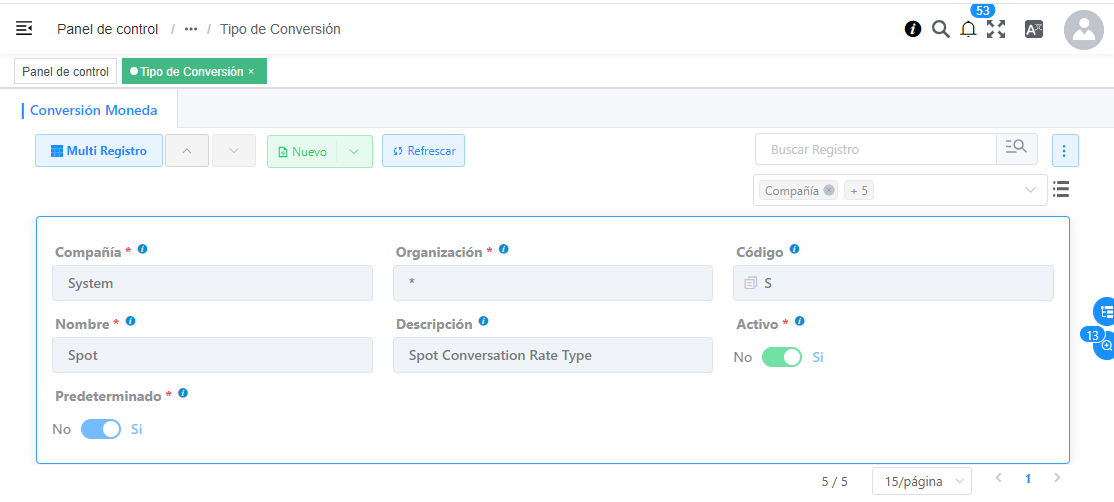
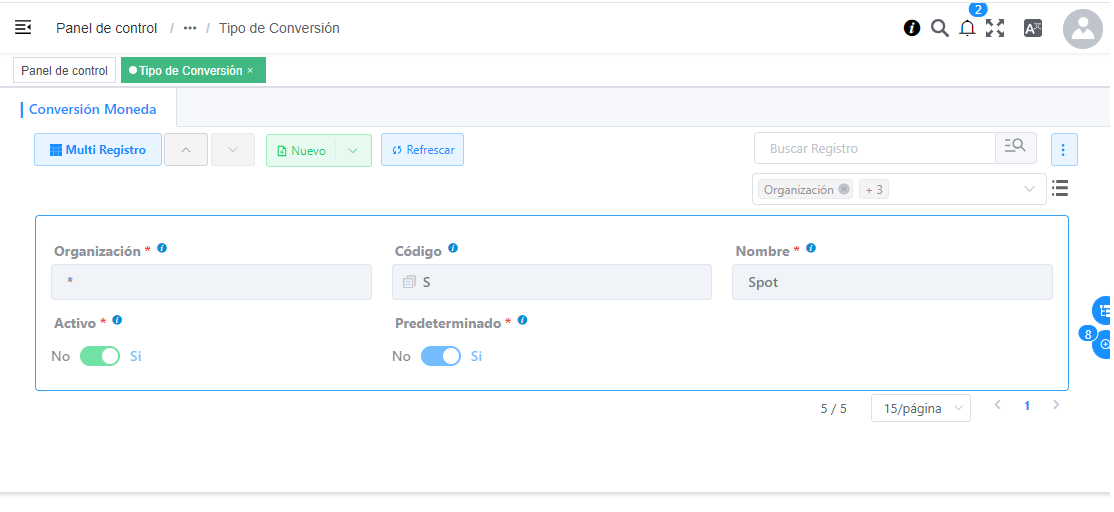
corrijo registro conversión monetaria, texto e imágenes

diff --git a/src/docs/accounting-management/accounting-rules/conversion.md b/src/docs/accounting-management/accounting-rules/conversion.md
@@ -23,7 +23,13 @@ Tasa de Conversión Diaria: Al trabajar con diferentes monedas en los procesos d
 
 En el caso de que el usuario intente crear una tasa de cambio con el mismo tipo de conversión y moneda utilizado previamente el mismo día, al intentar guardar el registro existirá una validación que no permitirá completar el proceso.
 
+Vista monoregistro:
+
 ![Campo](/assets/img/docs/accounting-management/acm-accounting-image997.png)
+
+Vista multiregistro:
+
+![Campo](/assets/img/docs/accounting-management/acm-accounting-image9970.png)
 
 Imagen 1. Ejemplo de Validación
 
@@ -43,7 +49,13 @@ Imagen 2. Menú de Solop ERP
 
 Podrá visualizar la ventana **Tipo de Conversión**, con los diferentes registros que contiene dicha ventana.
 
+Vista monoregistro:
+
 ![Campo](/assets/img/docs/accounting-management/acm-accounting-image208.png)
+
+Vista multiregistro:
+
+![Campo](/assets/img/docs/accounting-management/acm-accounting-image2008.png)
 
 Imagen 3. Ventana Tipo de Conversión
 
@@ -51,9 +63,9 @@ Seleccione el icono **Registro Nuevo**, ubicado en la barra de herramientas de S
 
 Seleccione en el campo **Organización**, la organización para la cual esta creando el registro de tipo de conversión.
 
-Introduzca en el campo **Código**, el código correspondiente al registro de tipo de conversión que se encuentra realizando, para este caso es utilizado el código **BCV**.
+Introduzca en el campo **Código**, el código correspondiente al registro de tipo de conversión que se encuentra realizando, para este caso es utilizado el código **BCU**.
 
-Introduzca en el campo **Nombre** el nombre correspondiente al registro de tipo de conversión que se encuentra realizando, para este caso es utilizado el nombre de conversión **BCV**.
+Introduzca en el campo **Nombre** el nombre correspondiente al registro de tipo de conversión que se encuentra realizando, para este caso es utilizado el nombre de conversión **BCU**.
 
 Introduzca en el campo **Descripción**, una breve descripción correspondiente al registro de tipo de conversión que se encuentra realizando.
 
@@ -93,13 +105,13 @@ La tasa de cambio se debe crear de dólares a pesos y de pesos a dólares.
 
 Seleccione en el campo **Moneda Hacia**, la moneda para la cual requiere convertir el dinero. Para ejemplificar el registro es utilizada la moneda **UYU**.
 
-Seleccione en el campo **Tipo de Conversión**, el tipo de conversión a utilizar. Para este caso es utilizado el tipo de conversión **BCV**, creado anteriormente.
+Seleccione en el campo **Tipo de Conversión**, el tipo de conversión a utilizar. Para este caso es utilizado el tipo de conversión **BCU**, creado anteriormente.
 
 Seleccione en el campo **Válido Desde**, la fecha desde la cual es válida la tasa de conversión que se encuentra realizando.
 
 Seleccione en el campo **Válido Hasta**, la fecha hasta la cual es válida la tasa de conversión que se encuentra realizando.
 
-Introduzca en el campo **Factor de Base a Destino**, la tasa por la que serán multiplicados los montos de las transacciones donde sea utilizado el tipo de conversión seleccionado anteriormente. Para ejemplificar el registro es utilizada la tasa **82.000,0**.
+Introduzca en el campo **Factor de Base a Destino**, la tasa por la que serán multiplicados los montos de las transacciones donde sea utilizado el tipo de conversión seleccionado anteriormente. Para ejemplificar el registro es utilizada la tasa **40,0**.
 
 ::: note
 Recuerde guardar los cambios realizados seleccionando el icono **Guardar Cambios**, ubicado en la barra de herramientas de Solop ERP.
@@ -133,7 +145,7 @@ Seleccione en el campo **Válido Desde**, la fecha de inicio del periodo de vali
 
 Seleccione en el campo **Válido Hasta**, la fecha final del periodo de validez de la tasa de cambio.
 
-Introduzca en el campo **Factor de Destino a Base**, la tasa por la que serán multiplicados los montos de las transacciones donde sea utilizado el tipo de conversión seleccionado anteriormente. Para ejemplificar el registro es utilizada la tasa **82.000,0**.
+Introduzca en el campo **Factor de Destino a Base**, la tasa por la que serán multiplicados los montos de las transacciones donde sea utilizado el tipo de conversión seleccionado anteriormente. Para ejemplificar el registro es utilizada la tasa **40,0**.
 
 ::: note
 Recuerde guardar los cambios realizados seleccionando el icono **Guardar Cambios**, ubicado en la barra de herramientas de Solop ERP.
